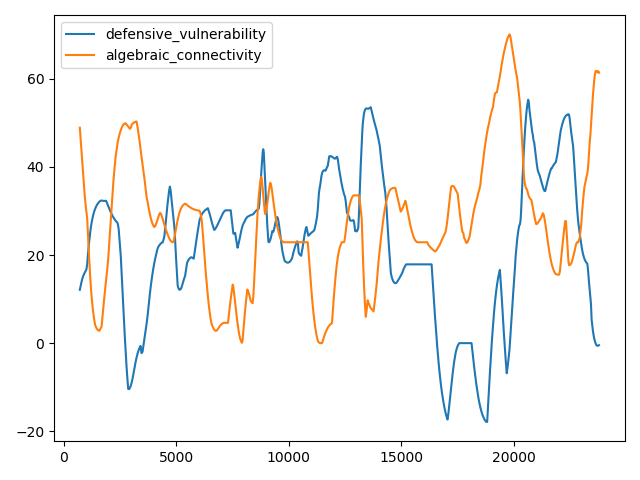
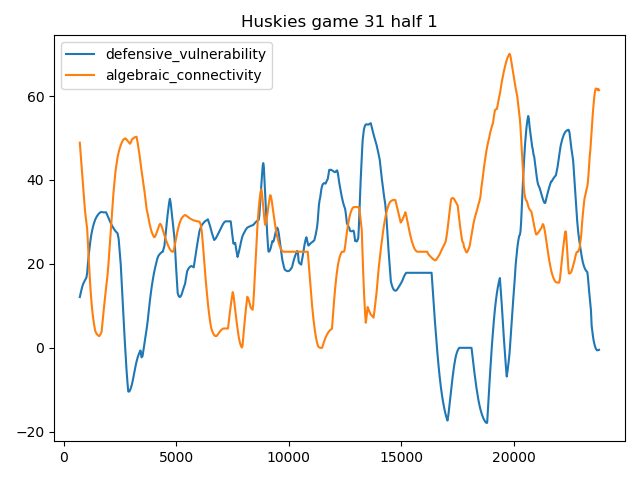
astdsfa

diff --git a/2020_Weekend1_Problems/2020_Problem_D_DATA/plots.py b/2020_Weekend1_Problems/2020_Problem_D_DATA/plots.py
@@ -54,9 +54,10 @@ if __name__ == "__main__":
    # gameglob = input("what glob friend? ")
 
 
-
+    game = '02'
+    half = '2'
     # plays_first = read_glob_of_plays('data/games/game02_2H')
-    plays_first = read_glob_of_plays('data/games/game31_2H')
+    plays_first = read_glob_of_plays(f'data/games/game{game}_{half}H')
 
     # plays_first =  read_glob_of_plays("data/games/game" + f"{gameglob:02}" + "_1H")
     # plays_second = read_glob_of_plays("data/games/game" + f"{gameglob:02}" + "_2H")
@@ -70,8 +71,9 @@ if __name__ == "__main__":
 
     # funcs = [groundLost, defensive_damage4, defensive_damage5]
     # plot2d(plays_first, funcs, plt.plot, mysmoother)
-    
+
     plt.legend()
+    plt.title(f"Huskies game {game} half {half}")
     plt.show()
 
     #plot3d(plays_first, funcs, mysmoother)
